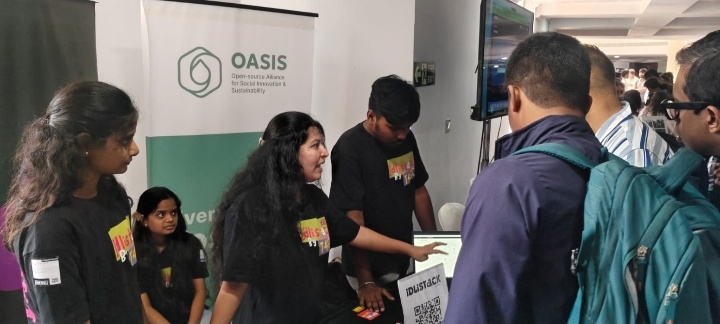
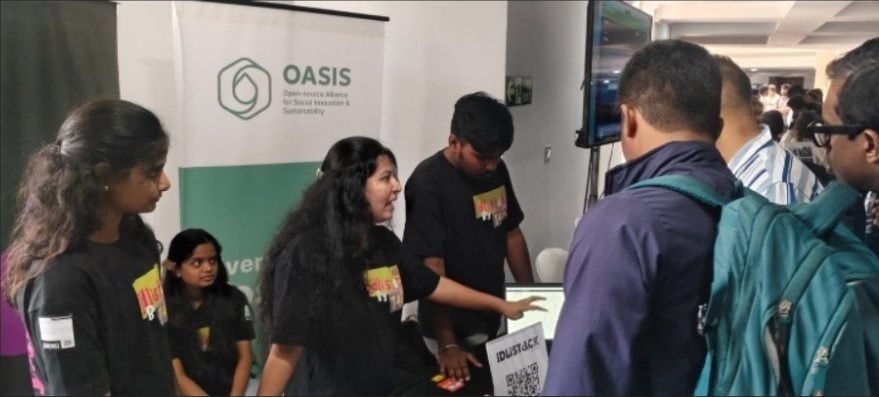
Updated the stall image

diff --git a/includes/header.php b/includes/header.php
@@ -4,7 +4,7 @@
  * Expects $page_title to be set before including.
  */
 if (!isset($page_title))
-    $page_title = 'Jency | Portfolio';
+    $page_title = 'Jency | Software Developer & Product Engineer';
 ?>
 <!DOCTYPE html>
 <html lang="en" data-theme="light">
@@ -16,9 +16,19 @@ if (!isset($page_title))
         content="Jency M. — Product Engineer & Software Developer. Explore my work, product thinking, and journey.">
     <meta name="keywords" content="developer, product engineer, portfolio, software developer, quality engineer">
     <meta name="author" content="Jency M.">
-    <title>
-        <?php echo e($page_title ?? 'Jency M. | Product Engineer'); ?>
-    </title>
+    <title><?php echo e($page_title ?? 'Jency | Software Developer & Product Engineer'); ?></title>
+
+    <!-- Open Graph / Social Media Preview -->
+    <meta property="og:type" content="website">
+    <meta property="og:title" content="<?php echo e($page_title ?? 'Jency | Software Developer & Product Engineer'); ?>">
+    <meta property="og:description" content="Jency M. — Product Engineer & Software Developer. Explore my work, product thinking, and journey.">
+    <meta property="og:image" content="assets/images/jency-portrait.jpg">
+
+    <!-- Twitter / X Preview -->
+    <meta name="twitter:card" content="summary_large_image">
+    <meta name="twitter:title" content="<?php echo e($page_title ?? 'Jency | Software Developer & Product Engineer'); ?>">
+    <meta name="twitter:description" content="Jency M. — Product Engineer & Software Developer. Explore my work, product thinking, and journey.">
+    <meta name="twitter:image" content="assets/images/jency-portrait.jpg">
 
     <!-- Google Fonts: Playfair Display (Serif) & Plus Jakarta Sans (Sans-serif) -->
     <link rel="preconnect" href="https://fonts.googleapis.com">

diff --git a/index.php b/index.php
@@ -13,7 +13,7 @@ $skills = db_fetch_all($conn, "SELECT * FROM skills ORDER BY percentage DESC");
 $projects = db_fetch_all($conn, "SELECT * FROM projects ORDER BY created_at DESC");
 $social_links = db_fetch_all($conn, "SELECT * FROM social_links ORDER BY id ASC");
 
-$page_title = 'Jency | Full-Stack Developer & Designer';
+$page_title = 'Jency | Software Developer & Product Engineer';
 require_once 'includes/header.php';
 ?>
 
@@ -608,7 +608,7 @@ require_once 'includes/header.php';
         </div>
         <div class="modal-body case-study-body">
             <div class="case-study-photo-wrap">
-                <img src="assets/images/projects/idlistack_stall.jpg" alt="IdliStack showcase at Tech4Good Summit stall" class="modal-hero-img">
+                <img src="assets/images/projects/idlistack_stall_landscape.jpg" alt="IdliStack showcase at Tech4Good Summit stall" class="modal-hero-img">
             </div>
             <div class="case-study-block">
                 <h4 class="case-study-subheading">About the Work</h4>
